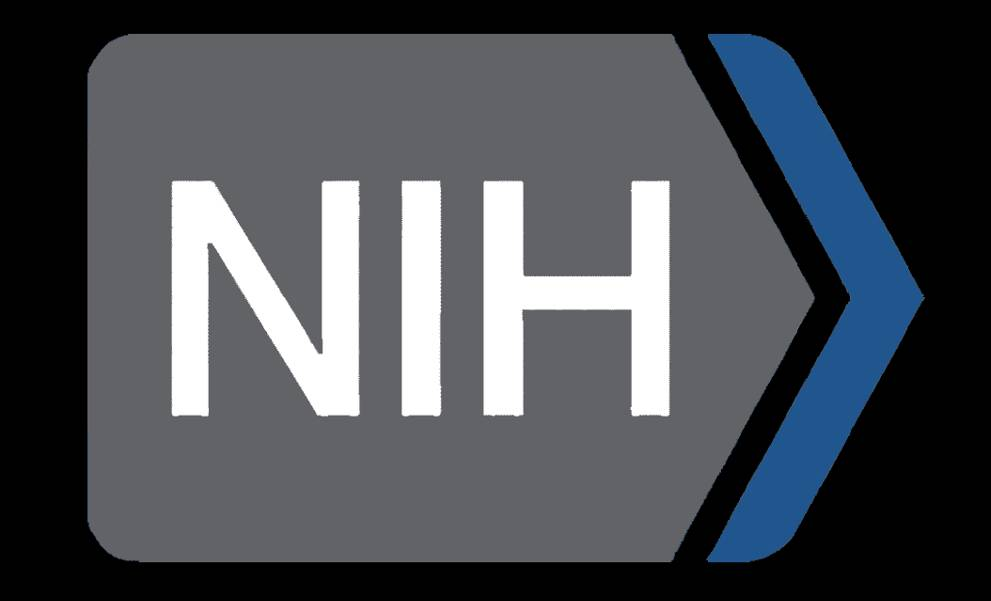
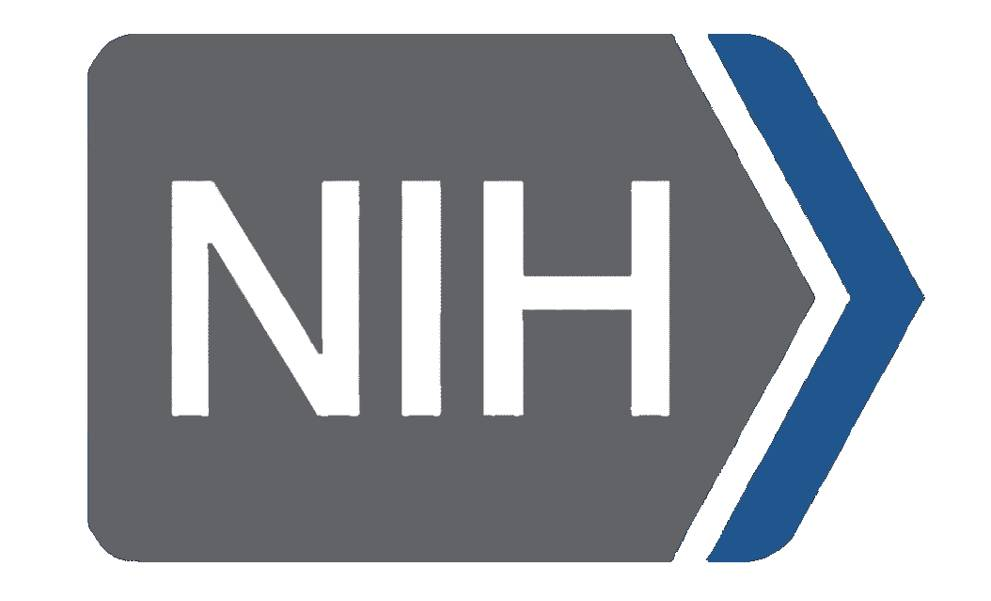
fix nih image

diff --git a/img_script.m b/img_script.m
@@ -33,3 +33,9 @@ fprintf(1, 'Writing width %d to %s\n', x, outFile);
 imwrite(b, outFile, 'jpg', 'Quality', 70);
 
 end
+
+% making transparent parts white instead of black
+% for idx = 1:3
+% newq = 255*ones(size(q,1), size(q,2));
+% q1 = q(:,:,idx); newq(~iswhite) = q1(~iswhite); q(:,:,idx) = newq;
+% end
